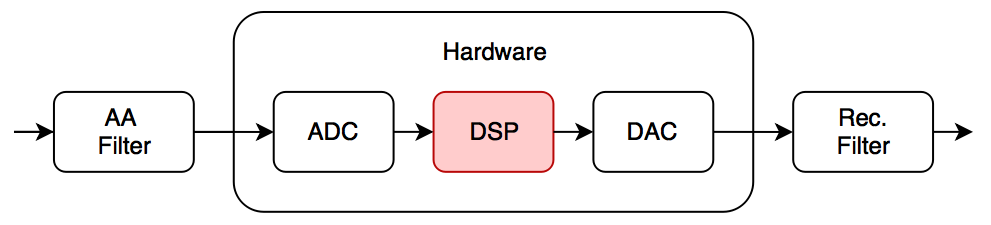
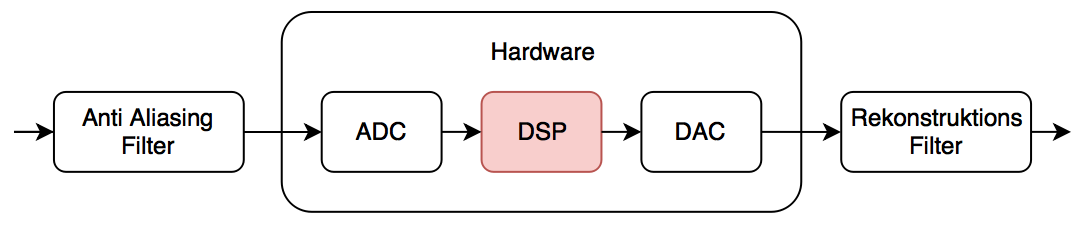
Rettet sidehovedbilleder og deres størrelse

diff --git a/section/test.tex b/section/test.tex
@@ -1,5 +1,11 @@
 \chapter{Test af equalizer}\label{sec:test_eq}
-\husk{Søren}{Lave blockdiagram til kapitel}
+
+
+\begin{figure}[h]
+	\vspace*{-1 cm}
+	\includegraphics[width=8cm]{billeder/flow_all}
+	\vspace{0.5 cm}
+\end{figure}
 
 
 \emph{I dette kapitel bliver der redegjort for testforløbet af equalizeren. Der bliver brugt en Bode 100 til måling af equalizerens overførselsfunktion. På denne måde kan det bevises om equalizerens profiler fungerer korrekt.}
@@ -28,7 +34,7 @@ Derudover blev der opstillet en "kode-test" hvor der blev beregnet filtre som al
 \section{Udførelse}
 For at måle overføringsfunktionen sættes Bode 100'ens output til indgangen på equalizeren. CH1 sættes også til indgangen. CH2 sættes til udgangen og målingen foretages for samtlige af ovenstående presets.
 
-
+\husk{Søren}{Ret billede til diagram over opsætning}
 \begin{figure}[h!]
 	\centering
 	\includegraphics[width=15cm]{billeder/setup}

diff --git a/section/indledning.tex b/section/indledning.tex
@@ -87,7 +87,6 @@ I dette afsnit fremstår de opsatte krav for projektet, der er fastsat dels ud f
 	\caption{Løsningsmodellen}
 	\label{fig:losningsmodel}
 \end{figure}
-\husk{Søren}{Lave alle blokdiagrammer om fra AA og Rec. til Antialias og Rekonstruktion}
 
 Løsningsmodellen som ses på figur \ref{fig:losningsmodel}, er delt op i tre hovedemner. Denne model gør det nemt at dele emnerne som indgår i rapporten op. Som første emne er der filtrene - altså både indgangs- og udgangsfiltret. Efter indgangsfiltret går man ind i hardware-blokken, som blandt andet indeholder den analoge til digitale konverter samt den digitale til analoge konverter. Til sidst er der emnet som indeholder den digitale signalbehandling, hvor de fs
 

diff --git a/section/hardware.tex b/section/hardware.tex
@@ -2,7 +2,7 @@
 
 \begin{figure}[h]
 	\vspace*{-1 cm}
-	\includegraphics[width=7cm]{billeder/flow_hardware}
+	\includegraphics[width=8cm]{billeder/flow_hardware}
 	\vspace{0.5 cm}
 \end{figure}
 

diff --git a/section/kap_analog_filter.tex b/section/kap_analog_filter.tex
@@ -2,7 +2,7 @@
 
 \begin{figure}[h]
 	\vspace*{-1 cm}
-	\includegraphics[width=7cm]{billeder/flow_filter}
+	\includegraphics[width=8cm]{billeder/flow_filter}
 	\vspace{0.5 cm}
 \end{figure}
 

diff --git a/section/filter.tex b/section/filter.tex
@@ -2,7 +2,7 @@
 
 \begin{figure}[h]
 	\vspace*{-1 cm}
-	\includegraphics[width=7cm]{billeder/flow_dsp}
+	\includegraphics[width=8cm]{billeder/flow_dsp}
 	\vspace{0.5 cm}
 \end{figure}
 
